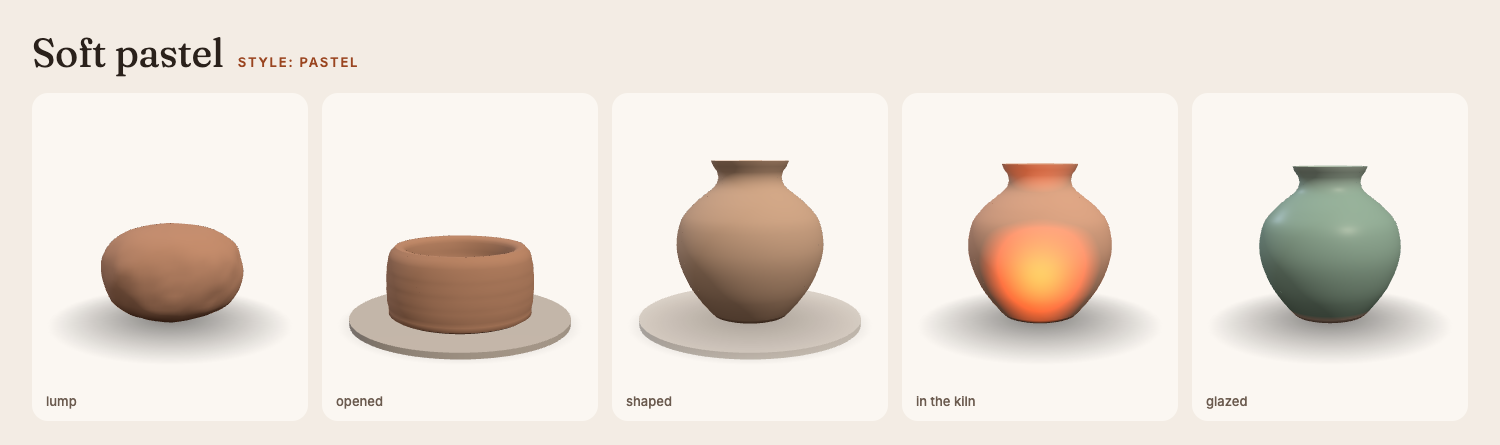
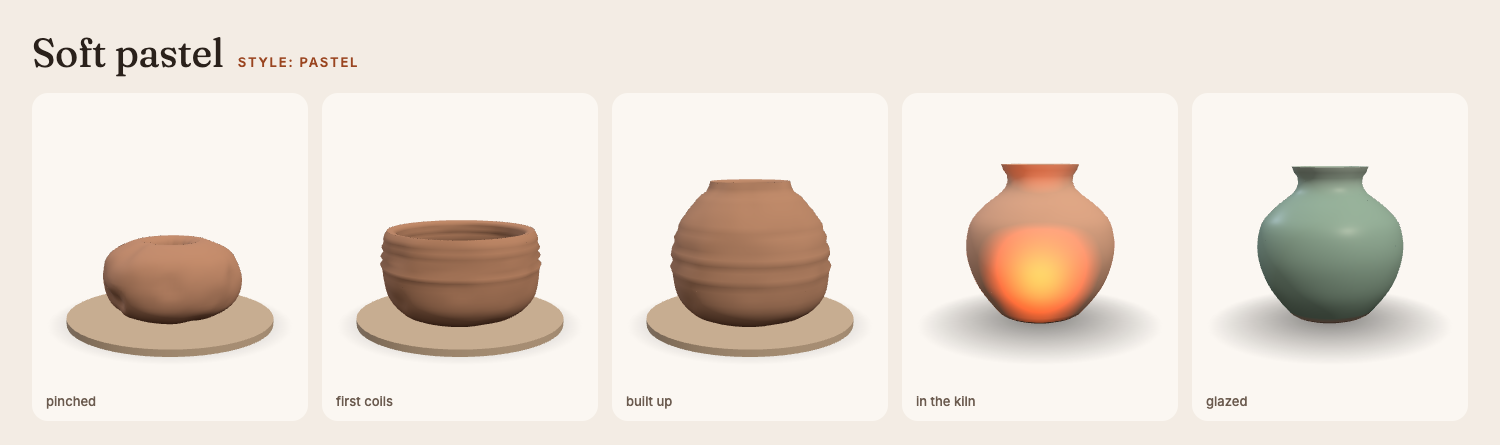
Hand-built, cel-shaded: pinch and coil instead of the wheel
The piece is now made the way Ivo makes it: a ball pinched open into a
bowl, built up coil by coil, smoothed into a jar, fired and glazed - on a
wooden board, no wheel. Hands show as thumb dents, rope-like coils and a
form that stays slightly wonky. Cel-shaded by default; the other styles
remain behind ?style=. Text rewritten for hand-building in EN and PT.
Fixes the accessibility test's wait for fades that get interrupted.

Claude-Session: https://claude.ai/code/session_016vts2yeCYib5QCUqFcUnKK

diff --git a/clay.js b/clay.js
@@ -1,12 +1,14 @@
 // The clay piece: one lathe-turned mesh whose profile, surface and colour
 // follow a "stage" value from 0 to 7, driven by the page's scroll position.
 //
-//   0 lump · 1 wedged · 2 centred · 3 opened · 4 walls pulled · 5 shaped jar
-//   6 bisque-fired · 7 glazed
+//   0 ball · 1 pinched open · 2 pinch bowl · 3 first coils · 4 coils built up
+//   5 smoothed and shaped · 6 bisque-fired · 7 glazed
 //
-// The shape is a profile curve (radius against height) spun around the
-// vertical axis, as on a wheel. Every stage's profile is resampled to the
-// same number of points, so moving between stages is a plain interpolation.
+// Built by hand, not thrown: pinched, then coiled. The shape is a profile
+// curve (radius against height) spun around the vertical axis; the hands show
+// in what is added on top of it - thumb dents, rope-like coils, a slightly
+// wonky finished form. Every stage's profile is resampled to the same number
+// of points, so moving between stages is a plain interpolation.
 import * as THREE from "three";
 
 
@@ -15,29 +17,29 @@ import * as THREE from "three";
 // inner one from the rim back down to the floor. Solid stages close the inner
 // wall at the top, on the axis.
 const PROFILES = [
-  { // 0 - a rough lump, just out of the bag
+  { // 0 - a ball of clay
     outer: [[0, 0], [0.5, 0.03], [0.82, 0.22], [0.95, 0.58], [0.88, 0.95], [0.6, 1.17], [0.18, 1.26]],
     inner: [[0.18, 1.26], [0.06, 1.27], [0, 1.27]],
   },
-  { // 1 - wedged: pressed down and spread
-    outer: [[0, 0], [0.9, 0.02], [1.24, 0.12], [1.32, 0.3], [1.17, 0.47], [0.72, 0.57], [0.16, 0.6]],
-    inner: [[0.16, 0.6], [0.05, 0.6], [0, 0.6]],
+  { // 1 - pinched open: a thumb pressed into the ball
+    outer: [[0, 0], [0.6, 0.03], [0.9, 0.24], [0.96, 0.56], [0.84, 0.86], [0.56, 1.02], [0.4, 1.04]],
+    inner: [[0.4, 1.04], [0.3, 0.97], [0.22, 0.76], [0.12, 0.62], [0, 0.6]],
   },
-  { // 2 - centred on the wheel, coned up
-    outer: [[0, 0], [0.88, 0], [1, 0.14], [0.96, 0.5], [0.72, 0.86], [0.36, 1.06], [0.08, 1.12]],
-    inner: [[0.08, 1.12], [0.03, 1.12], [0, 1.12]],
+  { // 2 - pinched out into a small bowl: the base
+    outer: [[0, 0], [0.7, 0.02], [1.0, 0.24], [1.08, 0.55], [1.05, 0.76]],
+    inner: [[1.05, 0.76], [0.93, 0.71], [0.88, 0.46], [0.62, 0.26], [0.3, 0.21], [0, 0.2]],
   },
-  { // 3 - opened: a thick-walled bowl
-    outer: [[0, 0], [0.9, 0], [1.01, 0.14], [1.03, 0.5], [0.99, 0.84], [0.9, 0.97]],
-    inner: [[0.9, 0.97], [0.76, 0.92], [0.7, 0.62], [0.57, 0.32], [0.3, 0.26], [0, 0.25]],
+  { // 3 - the first coils laid around the rim
+    outer: [[0, 0], [0.7, 0.02], [1.0, 0.24], [1.08, 0.55], [1.07, 0.86], [1.03, 1.12], [1.0, 1.2]],
+    inner: [[1.0, 1.2], [0.88, 1.14], [0.92, 0.86], [0.93, 0.6], [0.85, 0.42], [0.6, 0.24], [0.3, 0.21], [0, 0.2]],
   },
-  { // 4 - walls pulled up into a cylinder
-    outer: [[0, 0], [0.74, 0], [0.82, 0.1], [0.8, 0.6], [0.78, 1.2], [0.76, 1.74], [0.72, 1.84]],
-    inner: [[0.72, 1.84], [0.66, 1.76], [0.68, 1.2], [0.7, 0.6], [0.62, 0.22], [0.3, 0.18], [0, 0.18]],
+  { // 4 - coil after coil, curving in towards a shoulder and neck
+    outer: [[0, 0], [0.7, 0.02], [1.0, 0.24], [1.08, 0.55], [1.07, 0.9], [0.96, 1.28], [0.74, 1.58], [0.56, 1.76], [0.53, 1.86]],
+    inner: [[0.53, 1.86], [0.42, 1.8], [0.58, 1.58], [0.82, 1.28], [0.95, 0.9], [0.94, 0.6], [0.85, 0.42], [0.6, 0.24], [0.3, 0.21], [0, 0.2]],
   },
-  { // 5 - shaped: belly, shoulder, neck and a rounded, flared lip
-    outer: [[0, 0], [0.48, 0], [0.58, 0.06], [0.86, 0.45], [1.01, 0.9], [0.96, 1.3], [0.78, 1.54], [0.6, 1.69], [0.47, 1.8], [0.43, 1.94], [0.49, 2.05], [0.535, 2.1], [0.53, 2.135]],
-    inner: [[0.53, 2.135], [0.5, 2.15], [0.465, 2.125], [0.4, 2.02], [0.37, 1.93], [0.39, 1.8], [0.55, 1.67], [0.73, 1.52], [0.89, 1.3], [0.94, 0.9], [0.79, 0.45], [0.46, 0.12], [0.2, 0.1], [0, 0.1]],
+  { // 5 - coils smoothed into one skin: belly, shoulder, neck, a rounded lip
+    outer: [[0, 0], [0.5, 0], [0.62, 0.07], [0.9, 0.45], [1.04, 0.9], [0.99, 1.3], [0.8, 1.54], [0.61, 1.69], [0.49, 1.8], [0.45, 1.94], [0.5, 2.04], [0.545, 2.09], [0.54, 2.13]],
+    inner: [[0.54, 2.13], [0.5, 2.15], [0.46, 2.12], [0.39, 2.01], [0.35, 1.92], [0.37, 1.79], [0.52, 1.66], [0.7, 1.51], [0.87, 1.29], [0.93, 0.9], [0.8, 0.46], [0.48, 0.15], [0.2, 0.13], [0, 0.13]],
   },
 ];
 // Firing shrinks clay a few percent; the glaze firing keeps that shape.
@@ -76,16 +78,18 @@ function sampled(m) {
 }
 
 /* ---------- Stage parameters ---------------------------------------------- */
-// How worked the surface looks, the throwing rings, and the material.
+// How worked the surface looks, the marks of the hands, and the material.
+// coils: height of the coil ropes; dents: finger and thumb marks; asym: how
+// lopsided - a hand-built piece never quite loses it.
 const STAGES = [
-  { rough: 0.13, rings: 0, asym: 1, color: "#86593f", roughness: 0.78, clearcoat: 0.1, bump: 1.4 },
-  { rough: 0.1, rings: 0, asym: 0.8, color: "#87593e", roughness: 0.76, clearcoat: 0.12, bump: 1.3 },
-  { rough: 0.022, rings: 0.0015, asym: 0.15, color: "#7f5238", roughness: 0.45, clearcoat: 0.55, bump: 0.6 },
-  { rough: 0.014, rings: 0.0025, asym: 0.05, color: "#82553b", roughness: 0.45, clearcoat: 0.5, bump: 0.5 },
-  { rough: 0.009, rings: 0.003, asym: 0, color: "#86593f", roughness: 0.48, clearcoat: 0.45, bump: 0.45 },
-  { rough: 0.006, rings: 0.0015, asym: 0, color: "#a9805f", roughness: 0.82, clearcoat: 0.05, bump: 0.5 },
-  { rough: 0.005, rings: 0.001, asym: 0, color: "#e0b49a", roughness: 0.95, clearcoat: 0, bump: 0.55 },
-  { rough: 0.004, rings: 0.0006, asym: 0, color: "#2f6d72", roughness: 0.14, clearcoat: 1, bump: 0.08 },
+  { rough: 0.13, coils: 0, dents: 0, asym: 1, color: "#86593f", roughness: 0.78, clearcoat: 0.1, bump: 1.4 },
+  { rough: 0.07, coils: 0, dents: 0.06, asym: 0.6, color: "#87593e", roughness: 0.7, clearcoat: 0.15, bump: 1.2 },
+  { rough: 0.04, coils: 0, dents: 0.04, asym: 0.35, color: "#85583d", roughness: 0.66, clearcoat: 0.18, bump: 1.0 },
+  { rough: 0.03, coils: 0.085, dents: 0.025, asym: 0.25, color: "#86593f", roughness: 0.66, clearcoat: 0.18, bump: 1.0 },
+  { rough: 0.026, coils: 0.075, dents: 0.02, asym: 0.2, color: "#885b40", roughness: 0.68, clearcoat: 0.15, bump: 0.9 },
+  { rough: 0.012, coils: 0, dents: 0.006, asym: 0.12, color: "#a9805f", roughness: 0.82, clearcoat: 0.05, bump: 0.6 },
+  { rough: 0.01, coils: 0, dents: 0.005, asym: 0.12, color: "#e0b49a", roughness: 0.95, clearcoat: 0, bump: 0.55 },
+  { rough: 0.008, coils: 0, dents: 0.004, asym: 0.12, color: "#2f6d72", roughness: 0.14, clearcoat: 1, bump: 0.08 },
 ];
 const BISQUE = new THREE.Color("#e0b49a");
 const GLAZE_RIM = new THREE.Color("#7fb3ae");
@@ -148,7 +152,7 @@ function shadowTexture() {
 export const STYLES = {
   realistic: { m: 44, segments: 120, material: "physical", toneMap: true, noise: 1 },
   toon: {
-    m: 32, segments: 80, material: "toon", noise: 0.55, outline: 0.028, ink: "#2a1d16",
+    m: 110, segments: 96, material: "toon", noise: 0.18, outline: 0.028, ink: "#2a1d16",
     palette: ["#b8744b", "#b8744b", "#a9653f", "#ad6a44", "#b06e48", "#cf9b70", "#f2c7aa", "#3f9089"],
     glaze: { rim: "#a6dccf", pool: "#2b6f6b", foot: "#f2c7aa" },
   },
@@ -187,10 +191,10 @@ function outlineMesh(geometry, color, thickness) {
 }
 
 /* ---------- Scene ---------------------------------------------------------- */
-export function createClay(canvas, { reducedMotion = false, style: styleName = "realistic" } = {}) {
-  const style = STYLES[styleName] ?? STYLES.realistic;
+export function createClay(canvas, { reducedMotion = false, style: styleName = "toon" } = {}) {
+  const style = STYLES[styleName] ?? STYLES.toon;
   const M = style.m, SEGMENTS = style.segments, SAMPLED = sampled(M);
-  canvas.dataset.style = STYLES[styleName] ? styleName : "realistic";
+  canvas.dataset.style = STYLES[styleName] ? styleName : "toon";
 
   const renderer = new THREE.WebGLRenderer({ canvas, antialias: true, alpha: true, preserveDrawingBuffer: true });
   renderer.setPixelRatio(Math.min(window.devicePixelRatio, 2));
@@ -257,18 +261,19 @@ export function createClay(canvas, { reducedMotion = false, style: styleName = "
     piece.add(contours);
   }
 
-  const wheelMat = {
-    physical: () => new THREE.MeshStandardMaterial({ color: 0x8d9196, metalness: 0.7, roughness: 0.35, transparent: true }),
-    toon: () => new THREE.MeshToonMaterial({ color: 0x9aa0a6, gradientMap: toonGradient(), transparent: true }),
-    flat: () => new THREE.MeshBasicMaterial({ color: 0xe9e0d4, transparent: true }),
-    faceted: () => new THREE.MeshStandardMaterial({ color: 0x8f949a, flatShading: true, roughness: 0.7, transparent: true }),
-    matte: () => new THREE.MeshStandardMaterial({ color: 0xd8d2cb, roughness: 1, transparent: true }),
+  // The wooden board the piece is built on - there is no wheel.
+  const boardMat = {
+    physical: () => new THREE.MeshStandardMaterial({ color: 0xa47a52, roughness: 0.8, transparent: true }),
+    toon: () => new THREE.MeshToonMaterial({ color: 0xc9a06f, gradientMap: toonGradient(), transparent: true }),
+    flat: () => new THREE.MeshBasicMaterial({ color: 0xe9dcc8, transparent: true }),
+    faceted: () => new THREE.MeshStandardMaterial({ color: 0xb38a5c, flatShading: true, roughness: 0.8, transparent: true }),
+    matte: () => new THREE.MeshStandardMaterial({ color: 0xdcc7ae, roughness: 1, transparent: true }),
   }[style.material]();
-  const wheelGeo = new THREE.CylinderGeometry(1.55, 1.55, 0.08, style.material === "faceted" ? 12 : 96);
+  const boardGeo = new THREE.CylinderGeometry(1.45, 1.45, 0.09, style.material === "faceted" ? 10 : 64);
   const wheel = new THREE.Group();
-  wheel.add(new THREE.Mesh(wheelGeo, wheelMat));
-  if (style.outline) wheel.add(outlineMesh(wheelGeo, style.ink, style.outline * 0.8));
-  wheel.position.y = -0.045;
+  wheel.add(new THREE.Mesh(boardGeo, boardMat));
+  if (style.outline) wheel.add(outlineMesh(boardGeo, style.ink, style.outline * 0.8));
+  wheel.position.y = -0.05;
   scene.add(wheel);
 
   const shadow = new THREE.Mesh(
@@ -293,7 +298,8 @@ export function createClay(canvas, { reducedMotion = false, style: styleName = "
       profile[i][1] = lerp(A[i][1], B[i][1], t);
     }
     const n0 = style.noise;
-    const rough = lerp(P.rough, Q.rough, t) * n0, rings = lerp(P.rings, Q.rings, t) * (style.contours ? 0.3 : 1), asym = lerp(P.asym, Q.asym, t);
+    const rough = lerp(P.rough, Q.rough, t) * n0, asym = lerp(P.asym, Q.asym, t);
+    const coils = lerp(P.coils, Q.coils, t), dents = lerp(P.dents, Q.dents, t);
     const height = Math.max(...profile.map((p) => p[1]));
     const glaze = clamp01(s - 6); // 0 before the glaze firing, 1 once glazed
     // The kiln: a warm glow that peaks halfway through the bisque firing.
@@ -307,13 +313,21 @@ export function createClay(canvas, { reducedMotion = false, style: styleName = "
       const along = i / (rows - 1);
       for (let j = 0; j < cols; j++) {
         const a = (j / SEGMENTS) * Math.PI * 2, ca = Math.cos(a), sa = Math.sin(a);
-        // Hand-worked roughness, the lump's lopsidedness, and throwing rings.
+        // Hand-worked roughness and the lopsidedness of a hand-built piece.
         let r = r0;
         if (r0 > 0.002) {
           r += rough * fbm(ca * 1.6 + 3, y * 2.2, sa * 1.6 + 7);
           r += asym * 0.06 * n0 * fbm(ca * 0.8 + 11, y * 1.1 + 2, sa * 0.8 - 5);
           r += asym * 0.07 * r0 * Math.cos(a - 0.8) + asym * 0.04 * r0 * Math.cos(2 * a + 1.3);
-          r += rings * Math.sin(y * 38) * (inside ? 0.6 : 1);
+          // Thumb and finger dents pressed into the surface.
+          r -= dents * Math.min(1, n0 * 2) * Math.pow(Math.max(0, noise3(ca * 2.6 + 1, y * 3.2, sa * 2.6 + 4)), 2) * 2.2;
+          // Coils: rope-like rings stacked above the pinched base, each one
+          // rolled by hand, so a little thicker or thinner around its length.
+          if (coils > 0 && y > 0.66) {
+            const ph = (y - 0.66) / 0.13, f = ph - Math.floor(ph);
+            const rope = Math.sqrt(Math.max(0, 1 - Math.pow(2 * f - 1, 2)));
+            r += coils * (rope - 0.62) * (1 + 0.35 * noise3(ca * 2 + Math.floor(ph) * 3.1, Math.floor(ph), sa * 2)) * (inside ? 0.7 : 1);
+          }
         }
         const v = (i * cols + j) * 3;
         positions[v] = Math.max(0, r) * ca;
@@ -370,10 +384,10 @@ export function createClay(canvas, { reducedMotion = false, style: styleName = "
       material.roughness = lerp(1, 0.4, glaze);
     }
     kiln.intensity = glow * (style.toneMap ? 18 : 6);
-    // The wheel is there while the piece is being thrown.
-    const onWheel = clamp01((s - 1.4) / 0.5) * clamp01((5.3 - s) / 0.5);
-    wheel.children.forEach((m) => { m.material.transparent = true; m.material.opacity = onWheel; });
-    wheel.visible = onWheel > 0.01;
+    // The board stays while the piece is being made, and is left behind for the kiln.
+    const onBoard = clamp01((5.3 - s) / 0.5);
+    wheel.children.forEach((m) => { m.material.opacity = onBoard; });
+    wheel.visible = onBoard > 0.01;
     canvas.dataset.stage = s.toFixed(2);
     canvas.dataset.glow = glow.toFixed(2);
     return glow;
@@ -397,9 +411,8 @@ export function createClay(canvas, { reducedMotion = false, style: styleName = "
     if (!running) return;
     const dt = Math.min(0.05, (now - last) / 1000);
     last = now;
-    // Faster while on the wheel, a slow turn for display otherwise.
-    const onWheel = stage > 1.6 && stage < 5.2;
-    if (!reducedMotion) spin += dt * (onWheel ? 1.6 : 0.25);
+    // A slow turn, so every side of the piece shows.
+    if (!reducedMotion) spin += dt * 0.3;
     piece.rotation.y = spin;
     if (Math.abs(stage - shown) > 0.0005) { build(stage); shown = stage; }
     renderer.render(scene, camera);

diff --git a/content.js b/content.js
@@ -1,6 +1,6 @@
 // Page content in both languages. Each section drives one stage of the clay
-// (see clay.js): 0 lump · 1 wedged · 2 centred · 3 opened · 4 pulled ·
-// 5 shaped · 6 bisque · 7 glazed.
+// (see clay.js): 0 ball · 1 pinched open · 2 pinch bowl · 3 first coils ·
+// 4 coils built up · 5 smoothed and shaped · 6 bisque · 7 glazed.
 //
 // PLACEHOLDERS to replace when ready: the three pieces under "work" (titles,
 // notes and photos - put photos in images/ and set `photo`).
@@ -13,12 +13,12 @@ window.CONTENT = {
     scrollHint: "Scroll to shape the clay",
     cv: "CV ↗",
     sections: [
-      { id: "top", eyebrow: "// ceramics · Porto", title: "Ivo Lopes", lead: "Earth, water, fire and time.", body: ["Ceramics, made by hand. Scroll down and follow a lump of clay all the way to a finished jar."] },
-      { id: "wedge", eyebrow: "01 · wedge", title: "It starts as a lump", body: ["Clay is wedged first: pressed, folded and turned on the bench, again and again, until the air is out and it is even all the way through.", "Skip it, and a hidden air pocket can crack the piece in the kiln weeks later."] },
-      { id: "centre", eyebrow: "02 · centre", title: "Find the centre", body: ["On the wheel, the clay is coned up and pressed down until it runs perfectly true. Off-centre by a millimetre now, and every wall that follows wobbles."] },
-      { id: "open", eyebrow: "03 · open", title: "Open it up", body: ["Thumbs press down into the spinning clay and draw the floor out, leaving enough thickness at the bottom to trim a foot later."] },
-      { id: "pull", eyebrow: "04 · pull", title: "Pull the walls", body: ["Pull after pull, the walls are lifted thinner and taller between the fingers. Each pass leaves a faint ring, the marks of how a piece was made."] },
-      { id: "work", eyebrow: "05 · shape", title: "Work", body: ["Belly, shoulder, neck, lip: the cylinder becomes a form. A few pieces:"], gallery: true },
+      { id: "top", eyebrow: "// ceramics · Porto", title: "Ivo Lopes", lead: "Earth, water, fire and time.", body: ["Ceramics, built by hand. Scroll down and follow a ball of clay all the way to a finished jar."] },
+      { id: "wedge", eyebrow: "01 · prepare", title: "It starts as a ball", body: ["Clay is wedged first: pressed, folded and turned on the bench until the air is out and it is even all the way through. Then it is rolled into a ball.", "Skip it, and a hidden air pocket can crack the piece in the kiln weeks later."] },
+      { id: "pinch", eyebrow: "02 · pinch", title: "Pinch it open", body: ["A thumb goes into the ball. Turning it slowly in the hand, the walls are pinched out between thumb and fingers, a little thinner with every round."] },
+      { id: "base", eyebrow: "03 · base", title: "A small bowl", body: ["The pinched form becomes a bowl with an even wall: the base everything else is built on."] },
+      { id: "coil", eyebrow: "04 · coil", title: "Coil by coil", body: ["Clay is rolled into long ropes and laid around the rim one coil at a time, each one scored and joined to the last with slip. Placing a coil slightly in or out is how the form starts to curve."] },
+      { id: "work", eyebrow: "05 · shape", title: "Work", body: ["The coils are blended into one smooth skin with fingers and a wooden rib. No two pieces come out alike, and each keeps a little of the hands that made it. A few pieces:"], gallery: true },
       { id: "fire", eyebrow: "06 · fire", title: "Through the fire", body: ["Bone dry, the piece goes into the kiln for its first firing, the bisque, at around 950°C. Clay turns into ceramic and shrinks a little on the way.", "Then glaze, and a second, hotter firing that melts it into glass."] },
       { id: "contact", eyebrow: "07 · glaze", title: "Finished", body: ["Questions, commissions, or just to talk clay:"], contact: true },
     ],
@@ -38,12 +38,12 @@ window.CONTENT = {
     scrollHint: "Desliza para moldar o barro",
     cv: "CV ↗",
     sections: [
-      { id: "top", eyebrow: "// cerâmica · Porto", title: "Ivo Lopes", lead: "Terra, água, fogo e tempo.", body: ["Cerâmica feita à mão. Desliza para baixo e acompanha um pedaço de barro até ser um jarro acabado."] },
-      { id: "wedge", eyebrow: "01 · amassar", title: "Começa num pedaço de barro", body: ["Primeiro, o barro é amassado: pressionado, dobrado e rodado na bancada, vezes sem conta, até sair o ar e ficar uniforme por dentro.", "Sem este passo, uma bolha de ar escondida pode rachar a peça no forno semanas depois."] },
-      { id: "centre", eyebrow: "02 · centrar", title: "Encontrar o centro", body: ["Na roda, o barro sobe em cone e volta a descer até rodar perfeitamente direito. Um milímetro fora do centro agora, e todas as paredes que se seguem abanam."] },
-      { id: "open", eyebrow: "03 · abrir", title: "Abrir a peça", body: ["Os polegares entram no barro a rodar e alargam o fundo, deixando espessura suficiente em baixo para tornear um pé mais tarde."] },
-      { id: "pull", eyebrow: "04 · puxar", title: "Puxar as paredes", body: ["Puxada a puxada, as paredes sobem mais finas e mais altas entre os dedos. Cada passagem deixa um anel ténue, as marcas de como a peça foi feita."] },
-      { id: "work", eyebrow: "05 · moldar", title: "Trabalhos", body: ["Bojo, ombro, gargalo, bordo: o cilindro ganha forma. Algumas peças:"], gallery: true },
+      { id: "top", eyebrow: "// cerâmica · Porto", title: "Ivo Lopes", lead: "Terra, água, fogo e tempo.", body: ["Cerâmica construída à mão. Desliza para baixo e acompanha uma bola de barro até ser um jarro acabado."] },
+      { id: "wedge", eyebrow: "01 · preparar", title: "Começa numa bola", body: ["Primeiro, o barro é amassado: pressionado, dobrado e rodado na bancada até sair o ar e ficar uniforme por dentro. Depois, enrola-se numa bola.", "Sem este passo, uma bolha de ar escondida pode rachar a peça no forno semanas depois."] },
+      { id: "pinch", eyebrow: "02 · beliscar", title: "Abrir com o polegar", body: ["Um polegar entra na bola. A rodar devagar na mão, as paredes vão sendo apertadas entre o polegar e os dedos, um pouco mais finas a cada volta."] },
+      { id: "base", eyebrow: "03 · base", title: "Uma pequena taça", body: ["A forma beliscada passa a uma taça de parede uniforme: a base onde tudo o resto é construído."] },
+      { id: "coil", eyebrow: "04 · rolos", title: "Rolo a rolo", body: ["O barro é enrolado em cordas compridas, assentes à volta do bordo um rolo de cada vez, cada um riscado e colado ao anterior com barbotina. Pôr um rolo um pouco mais para dentro ou para fora é o que começa a curvar a forma."] },
+      { id: "work", eyebrow: "05 · moldar", title: "Trabalhos", body: ["Os rolos são fundidos numa só pele lisa, com os dedos e uma costela de madeira. Não há duas peças iguais, e cada uma guarda um pouco das mãos que a fizeram. Algumas peças:"], gallery: true },
       { id: "fire", eyebrow: "06 · cozer", title: "Pelo fogo", body: ["Bem seca, a peça vai ao forno para a primeira cozedura, a chacota, a cerca de 950°C. O barro passa a cerâmica e encolhe um pouco pelo caminho.", "Depois vem o vidrado, e uma segunda cozedura, mais quente, que o derrete em vidro."] },
       { id: "contact", eyebrow: "07 · vidrar", title: "Acabado", body: ["Perguntas, encomendas, ou só para falar de barro:"], contact: true },
     ],

diff --git a/index.html b/index.html
@@ -4,7 +4,7 @@
   <meta charset="utf-8">
   <meta name="viewport" content="width=device-width, initial-scale=1">
   <title>Ivo Lopes · Ceramics</title>
-  <meta name="description" content="Ceramics by Ivo Lopes, made by hand in Porto. Scroll to follow a lump of clay from the wheel through the kiln to a finished, glazed jar.">
+  <meta name="description" content="Ceramics by Ivo Lopes, made by hand in Porto. Scroll to follow a ball of clay, pinched and coiled by hand, through the kiln to a finished, glazed jar.">
   <meta property="og:title" content="Ivo Lopes · Ceramics">
   <meta property="og:description" content="Earth, water, fire and time. Scroll to shape the clay.">
   <meta property="og:url" content="https://art.ivolopes.com">

diff --git a/tools/mocks.html b/tools/mocks.html
@@ -24,7 +24,7 @@
     const style = new URLSearchParams(location.search).get("style") || "realistic";
     const names = { realistic: "Realistic", toon: "Cel-shaded", ink: "Ink sketch", lowpoly: "Low-poly", pastel: "Soft pastel" };
     document.getElementById("title").innerHTML = `${names[style]}<small>style: ${style}</small>`;
-    const stages = [[0, "lump"], [3, "opened"], [5, "shaped"], [5.55, "in the kiln"], [7, "glazed"]];
+    const stages = [[1, "pinched"], [3, "first coils"], [4, "built up"], [5.55, "in the kiln"], [7, "glazed"]];
     const row = document.getElementById("row");
     for (const [s, label] of stages) {
       const fig = document.createElement("figure");

diff --git a/app.js b/app.js
@@ -85,7 +85,7 @@ function currentStage() {
 let clay = null;
 try {
   // ?style= previews the other art styles (see STYLES in clay.js).
-  clay = createClay($("#clay"), { reducedMotion, style: params.get("style") || "realistic" });
+  clay = createClay($("#clay"), { reducedMotion, style: params.get("style") || "toon" });
 } catch (err) {
   // No WebGL: a still drawing of the finished jar stands in.
   document.documentElement.classList.add("no-webgl");

diff --git a/README.md b/README.md
@@ -2,15 +2,17 @@
 
 [![CI](https://github.com/githubdoivo/art/actions/workflows/ci.yml/badge.svg)](https://github.com/githubdoivo/art/actions/workflows/ci.yml)
 
-Ceramics by Ivo Lopes. As you scroll, a 3D lump of clay is wedged, centred on
-the wheel, opened, pulled, shaped into a jar, bisque-fired and glazed, with
-each step of the page's text alongside it.
+Ceramics by Ivo Lopes, built by hand. As you scroll, a cel-shaded 3D ball of
+clay is pinched open, built up coil by coil, smoothed into a jar,
+bisque-fired and glazed, with each step of the page's text alongside it.
 
 - **`clay.js`**: the piece. A profile curve (radius against height) spun
-  around the axis like a wheel-thrown pot, with one profile per stage,
-  resampled to the same points so stages blend smoothly. Surface roughness,
-  throwing rings, colour and finish (wet clay → bone dry → bisque → glaze,
-  with a bare foot ring) follow the stage too. three.js, no build step.
+  around the axis, one profile per stage, resampled to the same points so
+  stages blend smoothly. The hands show in what is layered on top: thumb
+  dents, rope-like coils, a form that stays a little wonky. Colour and finish
+  (clay → bone dry → bisque → glaze, with a bare foot ring) follow the stage
+  too. Cel-shaded by default; `?style=realistic|ink|lowpoly|pastel` previews
+  the other looks. three.js, no build step.
 - **`content.js`**: all the text, in English and Portuguese. The three
   pieces under "Work" are placeholders: add photos to `images/` and set
   `photo` on each.
